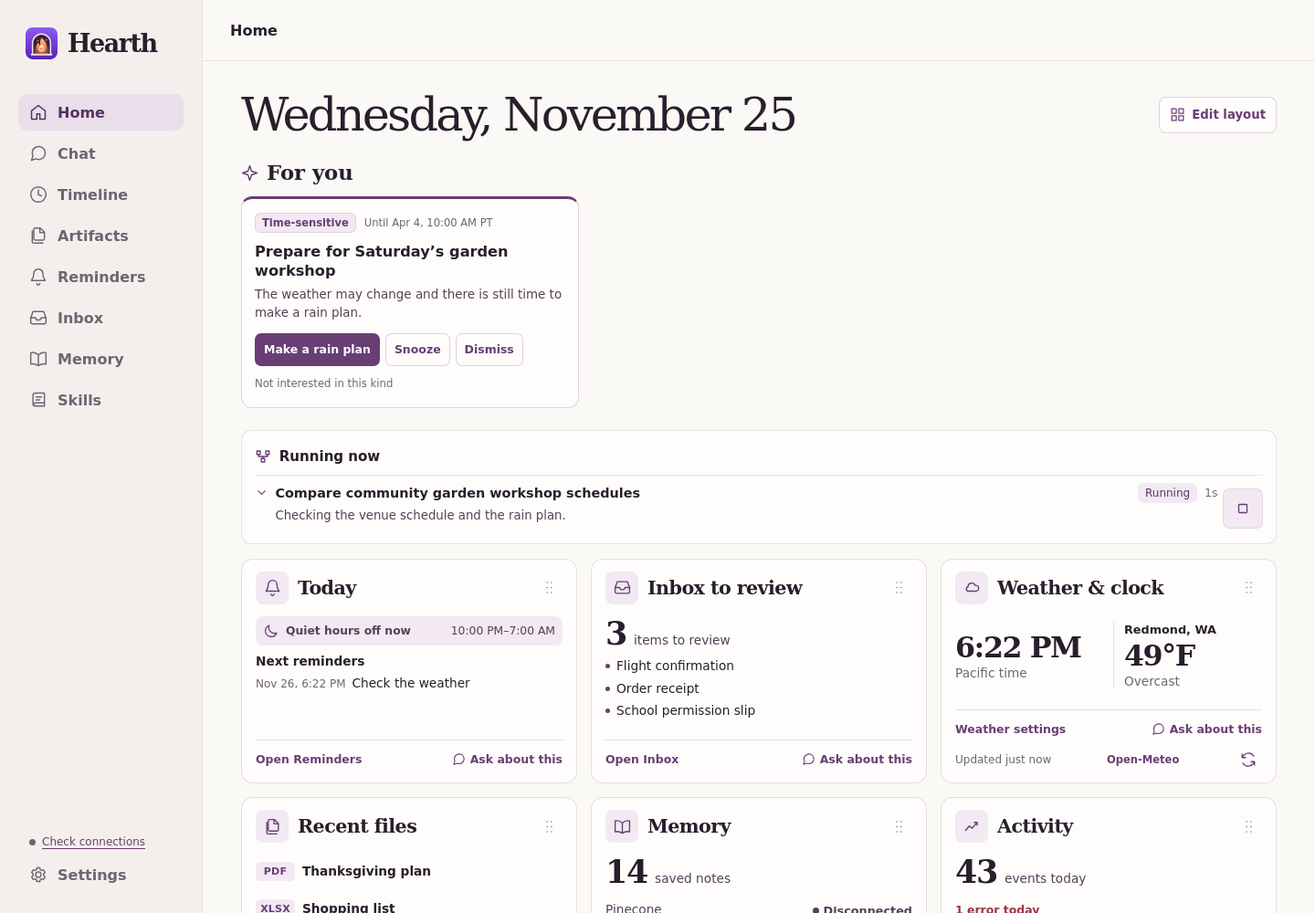
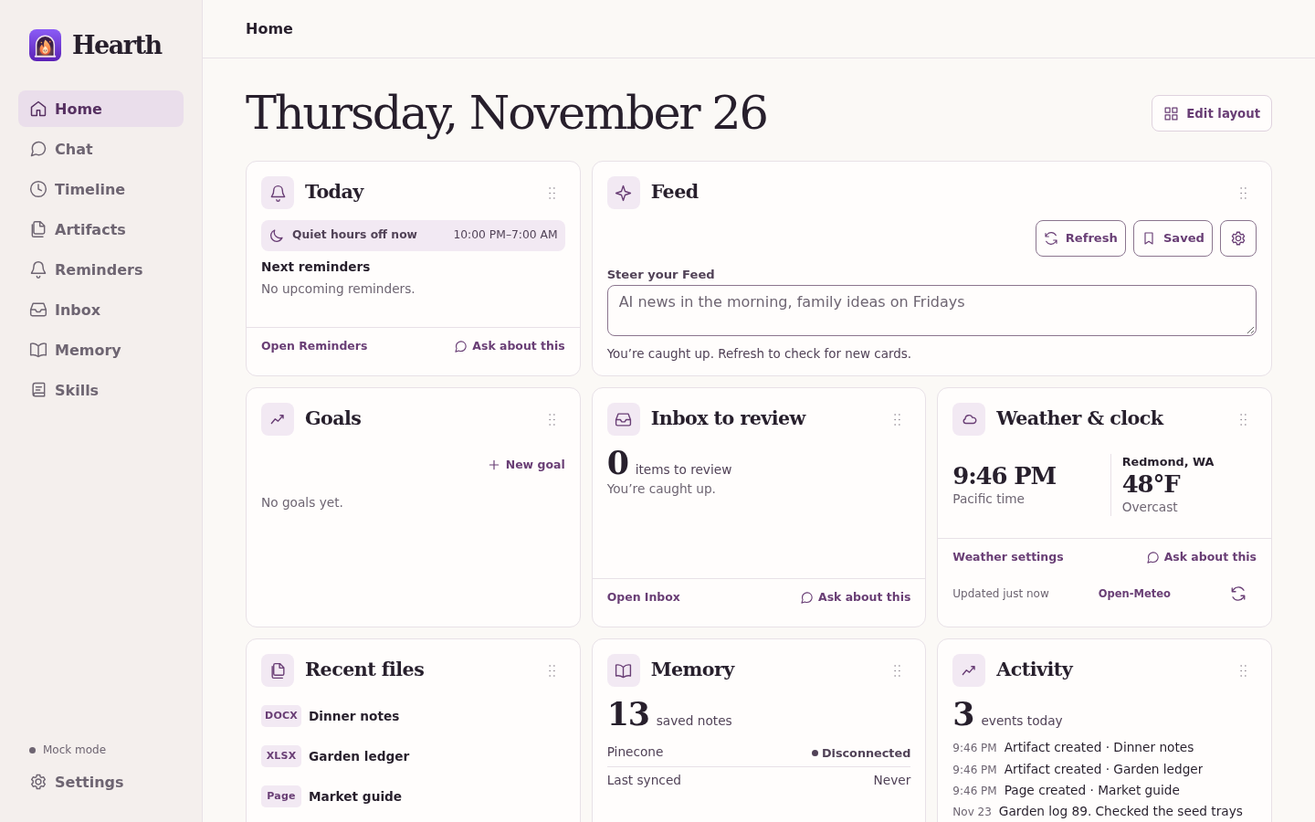
Refresh Hearth feature guides and README screenshots

diff --git a/README.md b/README.md
@@ -2,19 +2,19 @@
 
 <img src="web/icons/icon-512.png" alt="Ember, the Hearth mascot" width="76">
 
-Hearth is a personal agent that lives on a Fly.io Sprite. Ask Ember to plan dinner, and Hearth can recall your Markdown notes, draft an invitation for approval, make a shopping spreadsheet, and schedule a reminder. The workspace stays on the Sprite across sleeps and restarts. Fly's connector gateway supplies access to models and services such as Box and Pinecone, while Timeline shows what Hearth did and which changes you can undo. Built for Fly.io Hacksgiving 2026.
+Hearth is a personal agent that lives on a Fly.io Sprite. Ask Ember to plan dinner, and Hearth can recall your Markdown notes, draft an invitation for approval, make a shopping spreadsheet, and schedule a reminder. The workspace disk persists across sleeps and restarts. Fly's connector gateway supplies access to models and services such as Box and Pinecone, while Timeline shows what Hearth did and which changes you can undo. Built for Fly.io Hacksgiving 2026.
 
 ## Screenshots
 
-| Home | Chat approval | Artifacts and Pages |
+| Home | Chat search | Artifacts and Pages |
 | --- | --- | --- |
-| [![Home showing a For you suggestion, an active worker, and workspace panels](docs/screenshots/home.png)](docs/screenshots/home.png) | [![Ember beside an email approval card](docs/screenshots/chat-approval.png)](docs/screenshots/chat-approval.png) | [![HTML pages in the Artifacts library](docs/screenshots/artifacts-pages.png)](docs/screenshots/artifacts-pages.png) |
+| [![Home with the date and workspace panels](docs/screenshots/home.png)](docs/screenshots/home.png) | [![Chat search showing highlighted matches grouped by chat](docs/screenshots/chat-approval.png)](docs/screenshots/chat-approval.png) | [![Documents and an HTML Page in the Artifacts library](docs/screenshots/artifacts-pages.png)](docs/screenshots/artifacts-pages.png) |
 | **Recurring tasks** | **Settings → Connections** | **Skills** |
 | [![Recurring task with schedule and run history](docs/screenshots/recurring-tasks.png)](docs/screenshots/recurring-tasks.png) | [![Connector catalog in Settings](docs/screenshots/connections.png)](docs/screenshots/connections.png) | [![Built-in playbooks in the Skills library](docs/screenshots/skills.png)](docs/screenshots/skills.png) |
 
 [<img src="docs/screenshots/mobile-dark-drawer.png" alt="Hearth’s dark mobile drawer with Settings pinned below the workspace links and chats" width="195">](docs/screenshots/mobile-dark-drawer.png)
 
-The screenshots use fictional data from the workspace audit. [Run 39 UI/UX audit](UX-AUDIT.md)
+The screenshots use fictional data. Home, Chat, and Artifacts were captured from offline fixtures at 1440 × 900 in light mode. [Run 87 screenshots](docs/run-87.md#screenshots)
 
 ## Navigation
 
@@ -22,18 +22,22 @@ The desktop sidebar and mobile drawer list **Home**, **Chat**, **Timeline**, **A
 
 **Settings** opens with all sections collapsed. The same accordion on desktop and phones groups preferences under **Assistant**, **Connected**, **Notifications**, and **App**. Manage and test connectors under **Connected → Connections** and review skill approval policies under **Notifications → Approvals**. Browse and edit playbooks on the **Skills** page. The `#skills` bookmark opens that page, and `#connections` opens Settings → Connections. On phones, find **Ember view** under **App → Appearance**.
 
+Long single-choice dropdowns, such as Timeline’s Category filter, open a searchable picker. The workspace uses view transitions and animated panels and menus. The system’s reduced-motion preference disables view, position, and scale animations while keeping surface fades. [Searchable dropdowns](docs/run-77.md), [Motion](docs/run-80.md)
+
 ## What you can do
 
 - **Chat with Ember.** Stream replies in Main or in separate side chats. Scroll up to load older messages. If a stream drops, Chat can replace the partial bubble on refresh once the server saves the reply. The open chat announces completed replies through a polite live region. Attach images, audio, PDFs, spreadsheets, and other supported files. Use a connected model, Smart routing across a model pool, or the local Mock brain. [Chat and polling](docs/architecture.md#polling-and-chat-history)
+- **Manage and search chats.** Open a thread’s **⋯** popover for Summary or to rename or delete a side chat. The button appears on desktop hover or focus and stays visible in the mobile drawer. In Chat, open **Search chats** with Cmd/Ctrl+K or press `/` outside an editing field. Choose a result to jump to its message, or choose **This chat** to step through matches in the active thread. [Thread actions](docs/run-75.md), [Chat search](docs/architecture.md#chat-search)
 - **Delegate independent work.** Ask a connected brain to use parallel workers for a comparison or several sources. Hearth shows progress, tool steps, and Stop controls in chat, shows active workers under **Running now** on Home, and combines their findings into one reply. Set the workspace limit from 1 to 6 in **Settings → Brain → Parallel workers**. The default is 4.
 - **Get timely suggestions.** **Home → Feed** combines Exa articles, topic digests, ideas from Memory, reminder prep, and timely Action suggestions. Follow or mute topics, steer what shows up, save cards, or take a card into Chat. [Proactivity guide](docs/proactivity.md)
 - **Turn suggestions into next steps.** The **Ideas** strip in Home Feed opens Chat drafts and approval cards for in-app reminders, follow-up automations, and public-page watchers. The **Goals** panel tracks target dates, check-ins, and progress from linked reminders or tasks, with goal context in Chat and Undo in Timeline. [Ideas and Goals guide](docs/ideas-and-goals.md), [Run 47 verification](docs/run-47.md)
 - **Check watcher availability.** **Settings → Watchers** shows the Apify gateway blocker. Page and price watchers offered by Ideas use Hearth’s public-page reader and appear under **Reminders → Recurring tasks** after approval. [Watcher status](docs/watchers.md)
-- **Stay on top of work.** Home shows reminders, Inbox, recent files, memory, activity, connector health, and Open-Meteo weather. Add panels from chat and rearrange them on Home.
+- **Stay on top of work.** Home shows reminders, Inbox, recent files, memory, activity, connector health, and Open-Meteo weather. In **Edit layout**, rearrange panels or open **Add panel** to restore a hidden panel to its saved position or start a new one in Main. [Home panels](docs/run-76.md)
 - **Make files and pages.** Create and edit DOCX, PDF, XLSX, and PPTX from chat. Preview and download artifacts, keep versions locally, and optionally sync to Box. Local files and Pages remain visible while the Box listing refreshes in the background. Build single-file HTML pages with phone and desktop previews, version history, and optional approved snapshot sharing. [Artifact listings and transfers](docs/box.md#artifact-listings-and-transfers)
 - **Ask your Box files.** In **Artifacts → Ask my files** or Chat, ask Hearth about selected files or up to 25 recent files. Answers cite file names with **Open in Box** links. The Sprite verified a question across a DOCX and an XLSX using Hearth’s text extraction, Pinecone, and its connected brain. [Box setup and probe](docs/box.md), [Run 46 verification](docs/run-46.md)
 - **Reuse skills in chat.** Start with four built-in Markdown playbooks or write your own. Use **Try it** to preload a skill in a side chat, select **Using skill** to open its playbook, and undo edits from Timeline. [Skills guide](docs/skills.md)
-- **Improve Hearth from Chat.** Review a small GitHub pull request, request revisions, discard it, or explicitly approve it for deployment when GitHub can enforce a fresh base. [Self-update guide](docs/self-update.md)
+- **Search workspace lists.** Use the search field or press `/` outside an editing field on Reminders, Inbox, or Skills. Search covers reminder titles and notes, Inbox subjects and previews, and skill names and Markdown. [List search](docs/run-79.md)
+- **Improve Hearth from Chat.** Review a small GitHub pull request, request revisions, discard it, or explicitly approve the commit shown. Hearth checks required CI jobs and branch freshness before merging. [Self-update and merge guard](docs/self-update.md)
 - **Review actions.** Approve, edit supported fields, or decline proposed actions, including email. Timeline records tool activity and approvals. Supported changes offer item-level Undo or filesystem checkpoint restore.
 - **Review what Hearth remembers.** Edit your profile and browse linked People, Places, Topics, and Daily notes. Search uses local keyword matching in English and Chinese, with optional Pinecone recall. With Auto-remember enabled, chat can save durable facts to subject notes during the turn. In chat, ask Hearth to permanently forget a specific fact. [Memory guide](docs/memory.md)
 - **Consolidate memory with review.** Hearth prepares a nightly digest of duplicate entries, contradictions, repeated profile facts, and stale items. Review proposals in **Memory → Review** or from **Home → Feed**. Change the schedule or select **Run now** in **Settings → Memory**. Accepted edits can be undone in Timeline. [Memory review](docs/memory.md#nightly-memory-review)
@@ -43,6 +47,8 @@ The desktop sidebar and mobile drawer list **Home**, **Chat**, **Timeline**, **A
 - **Talk to Hearth.** Dictate with browser speech recognition or Hugging Face Whisper. Vocal Bridge adds live calls routed to the originating chat, with a scripted call demo available locally.
 
 ## Architecture
+
+The Python standard-library HTTP server serves native ES modules. Workspace views use Preact 10.29.8, its hooks, and htm 3.1.1 from `web/vendor/` via a CSP-hashed import map. The frontend has no build step. [Frontend architecture](docs/architecture.md#frontend)
 
 ```mermaid
 flowchart LR
@@ -76,7 +82,7 @@ Connectors are enabled per Sprite. A fresh clone has empty connection settings a
 | Box | Artifact upload, version writes, and reading files from the workspace folder | Live upload and file reads passed. Box AI Ask and structured extraction returned gateway HTTP 403. [Box details](docs/box.md) |
 | Exa | Web search and source links in chat | Live sourced replies passed in Runs 34 and 64. |
 | AgentMail | Approved chat email, reminder and task delivery, and forwarded-mail imports | Run 44 verified the inbound automation path. Run 63 delivery checks used mocked mail. |
-| Vocal Bridge | Live calls and chat queries from the voice agent | Requires a deployed voice agent and its connector. Live call verification is outside Run 63. |
+| Vocal Bridge | Live calls and chat queries from the voice agent | Requires a deployed voice agent and its connector. Run 85 exercised the call UI with a mocked SDK and simulated audio. |
 | Browserbase | Search, fetch, and approval-gated browser sessions | The demo Sprite passed the read-only connection check in Run 34. |
 | Ollama Cloud | Alternative chat brain through the gateway | Optional configuration. Live model verification is outside Run 63. |
 | Apify | Actor-list probe | The list probe passed. Gateway HTTP 403 blocked run and dataset reads. Hearth's watchers use its public-page reader. [Apify probe](docs/watchers.md) |
@@ -117,23 +123,23 @@ Use **Settings → Connections** to refresh discovery. Other Settings sections c
 
 ## Tests
 
-Use Node.js 22 as in CI. Install the Chinese PDF test font using the [development guide](docs/development.md), which also covers Playwright.
+Use Node.js 22 as in CI. The development guide covers the Chinese PDF test font, syntax checks for nested modules, and Playwright smoke commands. [Development guide](docs/development.md)
 
 ```sh
 python -m pip install -r requirements-test.txt
-python -m unittest discover -s tests
+scripts/install-office-font.sh .hearth/fonts
+HEARTH_CJK_FONT="$PWD/.hearth/fonts/wqy-microhei.ttc" python -m unittest discover -s tests
 node --test tests/*.test.mjs
-for file in web/*.js; do node --check "$file" || exit; done
 ```
 
-Run 63 passed 315 Python tests, 16 Node tests, JavaScript syntax checks for 27 files, and both offline Chromium runs. [Test commands and results](docs/testing.md), [Live QA and provider limitations](QA-REPORT.md)
+Run 85 checked production read-only in Chromium and exercised local flows in Chromium, WebKit, and Firefox. Run 86 fixed mouse selection in Chat search and verified it on all three engines. The browser QA used simulated audio and phone viewports. A real microphone, a real Vocal Bridge call, and a physical iPhone were outside its coverage. [QA results](docs/testing.md#runs-85-and-86-verification)
 
 ## Project layout
 
 | Path | Contents |
 | --- | --- |
 | [hearth/](hearth/) | Python server, agent tools, provider adapters, and workspace services |
-| [web/](web/) | HTML, CSS, JavaScript, Ember assets, and the vendored call SDK |
+| [web/](web/) | HTML shell, Preact view modules, CSS, Ember assets, and vendored browser dependencies |
 | [memory/](memory/) | Sample Markdown copied into a fresh workspace |
 | [config/](config/) | Connector defaults and catalog |
 | [scripts/](scripts/) | Sprite deployment, services, and scheduler wake |
@@ -154,6 +160,7 @@ Keep the workspace URL behind Sprite authentication. Provider API keys stay with
 - [Memory](docs/memory.md)
 - [Skills](docs/skills.md)
 - [Voice](docs/voice.md)
+- [Self-update and merge guard](docs/self-update.md)
 - [Development](docs/development.md)
 - [Testing and edge authorization](docs/testing.md)
 - [Security and untrusted content](docs/security.md)
@@ -162,4 +169,4 @@ Keep the workspace URL behind Sprite authentication. Provider API keys stay with
 
 ## License
 
-Hearth is released under the [MIT License](LICENSE). The vendored call SDK and LiveKit code retain their Apache 2.0 notices. [Vocal Bridge license](web/vendor/LICENSE-VocalBridge), [LiveKit license](web/vendor/LICENSE-LiveKit)
+Hearth is released under the MIT License. The vendored browser dependencies retain their own notices. [Hearth license](LICENSE), [Preact license](web/vendor/LICENSE-Preact), [htm license](web/vendor/LICENSE-htm), [Vocal Bridge license](web/vendor/LICENSE-VocalBridge), [LiveKit license](web/vendor/LICENSE-LiveKit)

diff --git a/docs/box.md b/docs/box.md
@@ -10,7 +10,7 @@ Hearth sends the extracted chunks for embedding. Pinecone stores only vectors an
 
 ## Artifact listings and transfers
 
-Artifacts shows local files, Pages, and the last cached Box listing while a background worker walks the selected Box folder. `GET /api/artifacts` reports Box freshness as `fresh`, `stale`, or `refreshing`, with `box_refreshed_at` set to the last successful listing or null on a cold cache. A successful listing stays fresh for 30 seconds. A failed listing keeps the previous rows and becomes eligible for retry after five seconds on a later request. **Refresh** requests a new walk, and the visible view checks for its completion. Results from a previous connection, folder, or checkpoint are discarded. Ask my files and explicit Box recall refresh use scoped reads that can wait for Box. [Artifact listing](../hearth/artifacts.py), [Artifacts UI](../web/artifacts.js)
+Artifacts shows local files, Pages, and the last cached Box listing while a background worker walks the selected Box folder. `GET /api/artifacts` reports Box freshness as `fresh`, `stale`, or `refreshing`, with `box_refreshed_at` set to the last successful listing or null on a cold cache. A successful listing stays fresh for 30 seconds. A failed listing keeps the previous rows and becomes eligible for retry after five seconds on a later request. **Refresh** requests a new walk, and the visible view checks for its completion. Results from a previous connection, folder, or checkpoint are discarded. Ask my files and explicit Box recall refresh use scoped reads that can wait for Box. [Artifact listing](../hearth/artifacts.py), [Artifacts UI](../web/artifacts/library.js)
 
 Generated-file writes, upload retries, and artifact undo release the workspace and artifact locks during rendering and Box I/O. The metadata commit rechecks the artifact revision and workspace checkpoint. Box version uploads use `If-Match` when a revision ETag is available. Multipart uploads read staged files in 64 KiB chunks. Remote artifact downloads spool in bounded chunks before Hearth sends the HTTP response, and local artifact downloads stream from disk. The 50 MiB Box download limit still applies. [Box adapter](../hearth/box.py), [Box I/O verification](run-59.md)
 

diff --git a/docs/run-87.md b/docs/run-87.md
@@ -1,0 +1,25 @@
+# Run 87 · Documentation refresh
+
+Updated the README and guides against `main` at `e50fe44`, using the implementation, tests, and run notes from 66–86.
+
+- Rewrote the frontend architecture for the vendored Preact, hooks, and htm modules, the view folders, the shared store, and the Python HTTP server. Added instructions for wiring a view and updating the import-map CSP hash. [Architecture](architecture.md#frontend), [Development](development.md)
+- Documented thread actions, Home panel restoration, searchable selects, Chat search and find-in-thread, list search, reduced motion, and the self-update merge guard. [README](../README.md), [Self-update](self-update.md)
+- Updated the test commands and summarized the Run 85 engine coverage and Run 86 Chat search fix. The earlier voice and mobile checks used simulated audio, a mocked call SDK, and emulated phone viewports. [QA summary](testing.md#runs-85-and-86-verification)
+- Fixed stale repository and public documentation links. Preserved workspace-only evidence paths and private GitHub run identifiers as text in the historical run notes.
+
+## Screenshots
+
+Captured the existing README filenames at 1440 × 900 in light mode using the offline browser-smoke workspace and fictional data. Home uses the date-only header and fixture weather. Chat uses the search fixture’s `orchid` results. Artifacts uses a seeded document, spreadsheet, and Page. [Home](screenshots/home.png), [Chat search](screenshots/chat-approval.png), [Artifacts](screenshots/artifacts-pages.png)
+
+## Verification
+
+| Check | Result |
+| --- | --- |
+| Python unittest discovery with `HEARTH_CJK_FONT` | 342 passed |
+| Node unit tests | 37 passed |
+| `node --check` | All 63 frontend JavaScript modules passed |
+| Playwright Chromium | Default offline smoke and stream-disconnect regression passed |
+| Screenshot capture | All three views rendered without console errors or warnings. Clicking a highlighted Chat search result focused the matched message. |
+| Markdown links | Repository paths, heading fragments, and public URLs checked across README and the Markdown files in `docs/` |
+
+The changes are limited to Markdown and the three README screenshots. Deployment and push were skipped.

diff --git a/docs/skills.md b/docs/skills.md
@@ -2,6 +2,8 @@
 
 Skills are reusable playbooks for Hearth. Open **Skills** from the desktop sidebar or mobile drawer. The library shows which playbooks are built in, when Hearth last loaded each one, and its use count. Use `#skills` to bookmark the library.
 
+Use the search field or press `/` outside an editing control to find current playbooks by name, description, when to use, optional tags, or Markdown body. The search is case- and accent-insensitive. [List search](run-79.md), [Search tests](../tests/test_list_search.py)
+
 - **Plan a dinner party** checks memory for guest allergies and dietary needs, proposes a menu, and creates an Excel shopping list.
 - **Weekly family brief** reads reminders, recurring tasks, and memory to summarize the coming week.
 - **Research and compare** uses Exa to find sources and Browserbase Fetch to read them, then presents a comparison table. It needs both providers for the full workflow and honors the global search and browsing switches.
@@ -9,7 +11,7 @@ Skills are reusable playbooks for Hearth. Open **Skills** from the desktop sideb
 
 ## Use a playbook
 
-Ask in chat naturally or name the skill. Hearth supplies the brain with skill names and descriptions so it can load a matching playbook before using its tools. Select the **Using skill** chip in chat to open that playbook in Settings. **Try it** opens a new side chat pinned to the selected skill. Enter a request in that chat to run the skill. Usage is counted when a turn loads the playbook, including turns that later fail.
+Ask in chat naturally or name the skill. Hearth supplies the brain with skill names and descriptions so it can load a matching playbook before using its tools. Select the **Using skill** chip in chat to open that playbook in Skills. **Try it** opens a new side chat pinned to the selected skill. Enter a request in that chat to run the skill. Usage is counted when a turn loads the playbook, including turns that later fail.
 
 Use a connected brain for model-based matching and to follow custom playbooks. Mock can demonstrate built-in dinner planning and the family brief with local data.
 

diff --git a/docs/memory.md b/docs/memory.md
@@ -45,7 +45,7 @@ Hearth uses DeepSeek V4.1 Flash through the Hugging Face connector when availabl
 
 A shared two-worker executor runs summaries off the reply path. Rolling updates coalesce by workspace and thread, with at most one follow-up for a running thread. A `summary.pending` marker lets startup requeue unfinished rolling work when summaries are enabled and a connected model is available. A failed model fold keeps the previous summary and cursor, records a sanitized Timeline diagnostic, and can retry on startup or after another reply. A corrupt summary can be rebuilt from the transcript. Before saving, Hearth rechecks the active agent, thread membership, forget rules, and previous summary so in-flight work cannot overwrite a reset. The shorter side-chat recap shares the executor and starts after the reply is persisted and `done` is emitted. [Summary implementation](../hearth/thread_summary.py), [Summary verification](run-56.md), [Reply ordering](run-58.md)
 
-Open **View summary** from a thread’s **⋯** menu. **Reset summary** clears the saved summary and starts the next fold from the current 16-message window. Reset saves a checkpoint and appears in Timeline. Turning the setting off pauses updates and stops Hearth from supplying saved summaries to the brain. Deleting a side chat removes its live summary. Checkpoints include summaries and their cursors alongside the transcript. [Thread storage](../hearth/threads.py)
+Choose **Summary** from the thread row’s **⋯** menu. The button appears on desktop hover or keyboard focus and stays visible in the mobile drawer. **Reset summary** clears the saved summary and starts the next fold from the current 16-message window. Reset saves a checkpoint and appears in Timeline. Turning the setting off pauses updates and stops Hearth from supplying saved summaries to the brain. Deleting a side chat removes its live summary. Checkpoints include summaries and their cursors alongside the transcript. [Thread menu](../web/chat/threads.js), [Thread storage](../hearth/threads.py)
 
 ## Migrating and undoing notes
 

diff --git a/docs/self-update.md b/docs/self-update.md
@@ -7,7 +7,7 @@ Hearth opens a PR from a `hearth/improve-…` branch. The Chat card shows the su
 **Approve and update** authorizes only the exact head shown in the card, even with Always allow enabled. **Ready to merge** means the checks passed and the proposal can be approved. **Waiting for tests** means Hearth is still polling. GitHub’s squash API pins the merge to the approved head SHA.
 
 - **GitHub branch protection** applies when Hearth can verify a classic rule that enforces required checks on up-to-date branches, applies the rule to administrators, and disallows force pushes. Hearth waits for GitHub’s checks and GitHub enforces the rule during the merge.
-- **Hearth's own checks: tests passed on an up-to-date branch** appears when Hearth verifies the fallback guard. The PR must be open, mergeable, out of draft, and at the approved head. Hearth compares current `main` with that head and requires `behind_by == 0`. Every configured GitHub Actions job must have a successful check run on that exact SHA. Failed, cancelled, skipped, and missing jobs block the merge.
+- **Hearth's own checks: tests passed on an up-to-date branch** appears when Hearth verifies the fallback guard. The PR must be open, mergeable, out of draft, and at the approved head. Hearth compares current `main` with that head and requires `behind_by == 0`. If the gateway rejects the REST comparison, Hearth can use a read-only GraphQL comparison and verifies both returned commit SHAs. Every configured GitHub Actions job must have a successful check run on the approved SHA. Failed, cancelled, skipped, and missing jobs block the merge. [Run 67 verification](run-67.md), [Merge guard tests](../tests/test_self_update.py)
 
 With Hearth’s own checks, **Refresh proposal** appears if `main` has advanced. Hearth reapplies the file changes to current `main` on the same PR branch. Review the new diff and tap **Approve and update** again. GitHub runs checks for the new head. If the changes overlap or GitHub reports a conflict that a refresh cannot resolve, ask for a fresh proposal.
 

diff --git a/docs/approvals-and-tasks.md b/docs/approvals-and-tasks.md
@@ -14,6 +14,8 @@ A reminder delivers a message when it comes due. Use **Reminders** to review sch
 
 An AgentMail inbox can also import forwarded email into Inbox as proposals for review. Sender allowlists and opt-in rules govern automatic acceptance and acknowledgments. [Inbox](../hearth/inbox.py), [AgentMail setup](connectors.md)
 
+Use the search field or press `/` outside an editing control. **Reminders** matches titles, notes, channels, and displayed due dates. **Inbox** matches mail fields such as sender, subject, and body preview in Review and Processed. The **Recurring tasks** tab keeps its own list. [List search](run-79.md), [Search tests](../tests/test_list_search.py)
+
 ## Recurring tasks
 
 A recurring task sends a saved instruction to Hearth's brain. In **Reminders → Recurring tasks**, choose **New task** and set its instruction, schedule, IANA time zone, and delivery. The scheduler supports **Once**, **Daily**, **Weekly**, **Interval**, and five-field **Cron**, with a preview of up to three upcoming run times. You can also ask in Chat, for example “Every weekday at 8am list my reminders,” and confirm the schedule on its card. A first-time workspace includes a paused **Morning brief** with reminders, For you suggestions, weather, and pending approvals. [Morning brief](proactivity.md#morning-brief)

diff --git a/docs/connectors.md b/docs/connectors.md
@@ -28,7 +28,7 @@ Run 34 verified Box upload, Whisper transcription, Exa search, and Browserbase's
 
 ## Box versions
 
-Hearth can create a file or upload a new version through the gateway's Box upload routes. It first tries `GET /2.0/files/{file_id}/versions` for remote version history. When that route is unavailable, Hearth builds the history from Box versions it has observed and recorded locally. Revisions created elsewhere may be missing from that list. [Box adapter](../hearth/box.py), [Artifacts](../hearth/artifacts.py)
+Hearth can create a file or upload a new version through the gateway’s Box upload routes. The app attempts `GET /2.0/files/{file_id}/versions` for remote history. Gateway support for that request remains unverified. If the request fails, Hearth uses version information it recorded locally. Revisions made directly in Box may be absent. [Box adapter](../hearth/box.py), [Artifacts implementation](../hearth/artifacts.py)
 
 ## Other providers
 
